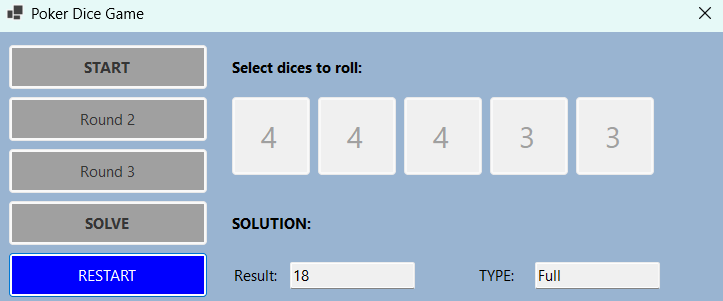
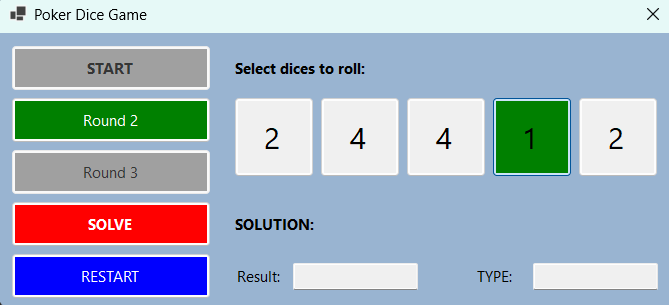
.

diff --git a/PokerDice/PokerDice.UI/MainForm.Designer.cs b/PokerDice/PokerDice.UI/MainForm.Designer.cs
@@ -65,7 +65,7 @@
             // 
             // textBox3
             // 
-            textBox3.Location = new Point(539, 230);
+            textBox3.Location = new Point(534, 230);
             textBox3.Name = "textBox3";
             textBox3.ReadOnly = true;
             textBox3.Size = new Size(125, 27);
@@ -83,7 +83,7 @@
             // label3
             // 
             label3.AutoSize = true;
-            label3.Location = new Point(479, 233);
+            label3.Location = new Point(474, 233);
             label3.Name = "label3";
             label3.Size = new Size(44, 20);
             label3.TabIndex = 6;
@@ -93,7 +93,7 @@
             // 
             dicesPanel.Location = new Point(232, 61);
             dicesPanel.Name = "dicesPanel";
-            dicesPanel.Size = new Size(486, 101);
+            dicesPanel.Size = new Size(437, 101);
             dicesPanel.TabIndex = 7;
             // 
             // round2Button
@@ -170,7 +170,7 @@
             AutoScaleDimensions = new SizeF(8F, 20F);
             AutoScaleMode = AutoScaleMode.Font;
             BackColor = SystemColors.ActiveCaption;
-            ClientSize = new Size(730, 274);
+            ClientSize = new Size(675, 274);
             Controls.Add(resetButton);
             Controls.Add(label5);
             Controls.Add(label4);

diff --git a/PokerDice/PokerDice.UI/obj/Debug/net10.0-windows/PokerDice.UI.AssemblyInfo.cs b/PokerDice/PokerDice.UI/obj/Debug/net10.0-windows/PokerDice.UI.AssemblyInfo.cs
@@ -14,7 +14,7 @@ using System.Reflection;
 [assembly: System.Reflection.AssemblyCompanyAttribute("PokerDice.UI")]
 [assembly: System.Reflection.AssemblyConfigurationAttribute("Debug")]
 [assembly: System.Reflection.AssemblyFileVersionAttribute("1.0.0.0")]
-[assembly: System.Reflection.AssemblyInformationalVersionAttribute("1.0.0+3ac9d6f85fe45b838d358161ae0b061fbf51ab75")]
+[assembly: System.Reflection.AssemblyInformationalVersionAttribute("1.0.0+b50b2b6c5ef7d1b063e576b5c70ab8fcfee4967a")]
 [assembly: System.Reflection.AssemblyProductAttribute("PokerDice.UI")]
 [assembly: System.Reflection.AssemblyTitleAttribute("PokerDice.UI")]
 [assembly: System.Reflection.AssemblyVersionAttribute("1.0.0.0")]
